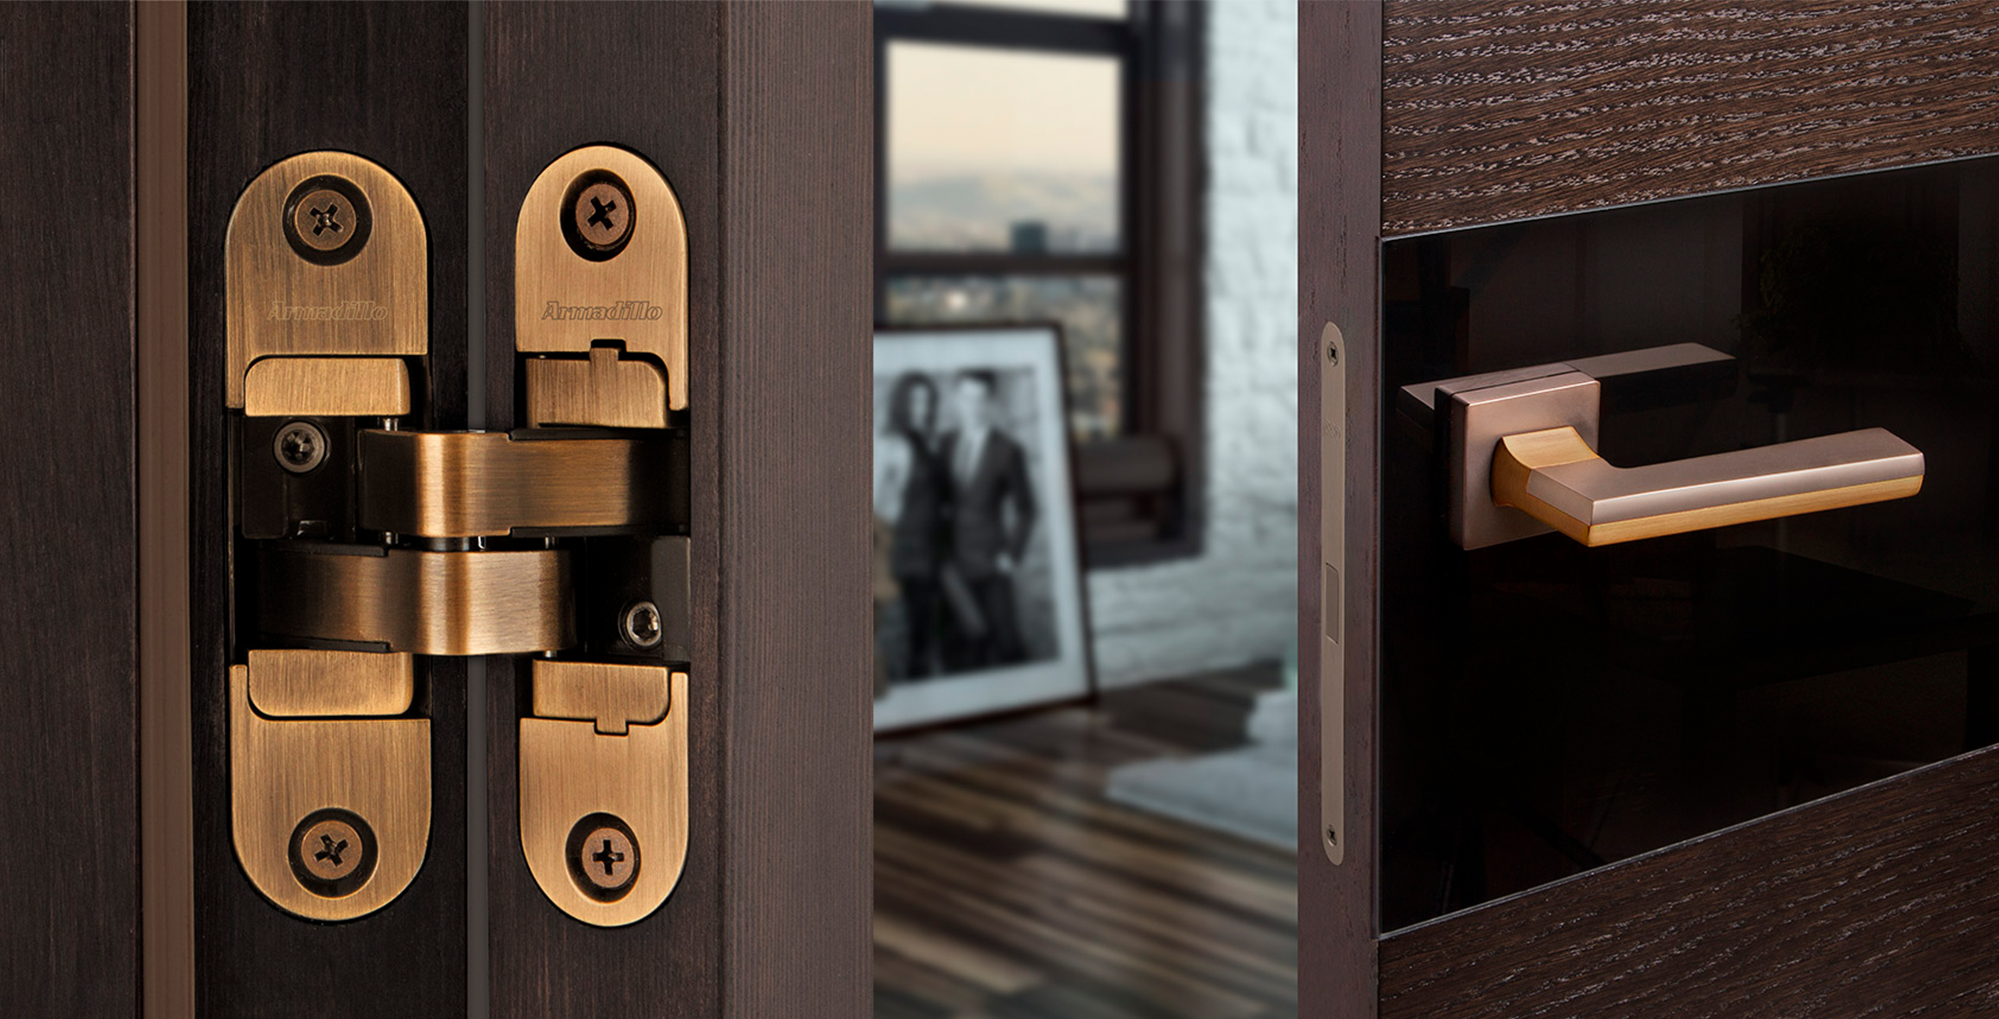
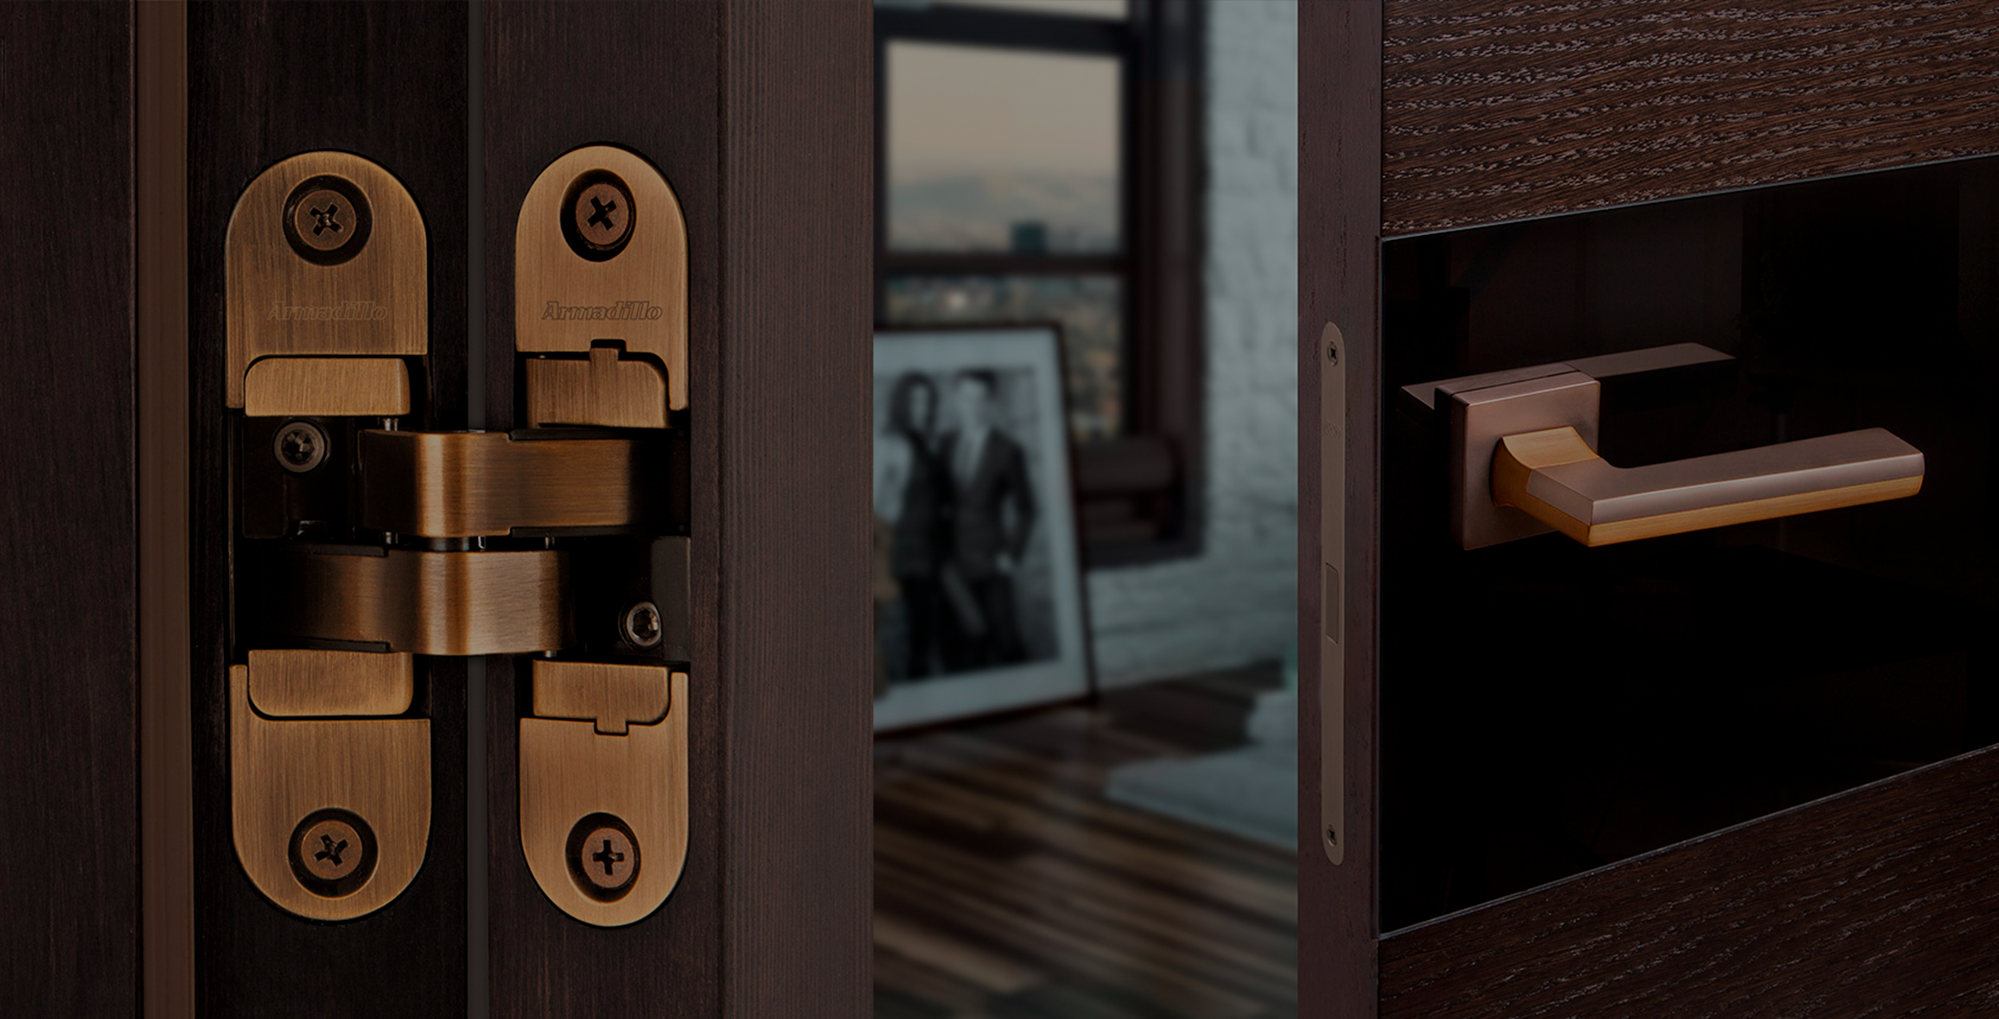
init(05.11.2024): fix header, slider images & ect.

diff --git a/single-product.html b/single-product.html
@@ -282,16 +282,16 @@
 						<!-- Single-product end -->
 					</div>
 					<!-- single-product-tab start -->
-					<div class="single-pro-tab">
-						<div id="information">
-							<div class="pro-tab-info pro-information">
-								<h3 class="tab-title title-border mb-30">Описание</h3>
-								<p>Lorem ipsum dolor sit amet, consectetur adipiscing elit. Integer accumsan egestas elese ifend. Phasellus a felis at est bibendum feugiat ut eget eni Praesent et messages in con sectetur posuere dolor non.</p>
-								<p>Lorem ipsum dolor sit amet, consectetur adipiscing elit. Integer accumsan egestas elese ifend. Phasellus a felis at est bibendum feugiat ut eget eni Praesent et messages in con sectetur posuere dolor non.</p>
-								<p>Lorem ipsum dolor sit amet, consectetur adipiscing elit. Integer accumsan egestas elese ifend. Phasellus a felis at est bibendum feugiat ut eget eni Praesent et messages in con sectetur posuere dolor non.</p>
-							</div>
-						</div>
-					</div>
+<!--					<div class="single-pro-tab">-->
+<!--						<div id="information">-->
+<!--							<div class="pro-tab-info pro-information">-->
+<!--								<h3 class="tab-title title-border mb-30">Описание</h3>-->
+<!--								<p>Lorem ipsum dolor sit amet, consectetur adipiscing elit. Integer accumsan egestas elese ifend. Phasellus a felis at est bibendum feugiat ut eget eni Praesent et messages in con sectetur posuere dolor non.</p>-->
+<!--								<p>Lorem ipsum dolor sit amet, consectetur adipiscing elit. Integer accumsan egestas elese ifend. Phasellus a felis at est bibendum feugiat ut eget eni Praesent et messages in con sectetur posuere dolor non.</p>-->
+<!--								<p>Lorem ipsum dolor sit amet, consectetur adipiscing elit. Integer accumsan egestas elese ifend. Phasellus a felis at est bibendum feugiat ut eget eni Praesent et messages in con sectetur posuere dolor non.</p>-->
+<!--							</div>-->
+<!--						</div>-->
+<!--					</div>-->
 				</div>
 			</div>
 			<!-- PRODUCT-AREA END -->
@@ -331,7 +331,7 @@
 							<p><br><br>Цены и информация, представленные на данном сайте, приведены в ознакомительных целях, не являются публичной офертой и могут быть изменены.</p>
 							<p>ИП Исаев Андрей Владимирович, УНП 690311744, свидетельство о государствееной регистрации №0870887 от 15.12.2022 г. Регистрация в Торговом реестре Республики Беларусь №690311744 от 15.11.2004 г.</p>
 							<p>По вопросам покупателей о защите их прав:<br><a href="80293673518">+375 (29) 367-35-18</a><br><a href="mailto:your-email@gmail.com">your-email@gmail.com</a></p>
-							<p>Контакты лиц, уполномоченных рассматривать обращения покупателей о нарушении их прав (Червеньский районный исполнительный комитет, отдел торговли и услуг)<br> +375 (17) 270-29-14<br> +375 (17) 270-33-75.</p>
+							<p>Контакты лиц, уполномоченных рассматривать обращения покупателей о нарушении их прав (Червеньский районный исполнительный комитет, отдел торговли и услуг).</p>
 						</div>
 					</div>
 				</div>

diff --git a/accessories.html b/accessories.html
@@ -406,7 +406,7 @@
                             <!-- Widget-Manufacturer start -->
                             <aside class="widget widget-color mb-30">
                                 <div class="widget-title">
-                                    <h4>Назначение</h4>
+                                    <h4>Сегмент</h4>
                                 </div>
                                 <div class="widget-info color-filter clearfix">
                                     <ul>
@@ -458,7 +458,7 @@
                         <p><br><br>Цены и информация, представленные на данном сайте, приведены в ознакомительных целях, не являются публичной офертой и могут быть изменены.</p>
                         <p>ИП Исаев Андрей Владимирович, УНП 690311744, свидетельство о государствееной регистрации №0870887 от 15.12.2022 г. Регистрация в Торговом реестре Республики Беларусь №690311744 от 15.11.2004 г.</p>
                         <p>По вопросам покупателей о защите их прав:<br><a href="80293673518">+375 (29) 367-35-18</a><br><a href="mailto:your-email@gmail.com">your-email@gmail.com</a></p>
-                        <p>Контакты лиц, уполномоченных рассматривать обращения покупателей о нарушении их прав (Червеньский районный исполнительный комитет, отдел торговли и услуг)<br> +375 (17) 270-29-14<br> +375 (17) 270-33-75.</p>
+                        <p>Контакты лиц, уполномоченных рассматривать обращения покупателей о нарушении их прав (Червеньский районный исполнительный комитет, отдел торговли и услуг).</p>
                     </div>
                 </div>
             </div>

diff --git a/index.html b/index.html
@@ -147,7 +147,7 @@
 			<section class="slider-area slider-style-2">
 				<div class="bend niceties preview-2">
 					<div id="ensign-nivoslider" class="slides">	
-						<img src="img/slider/1.jpg" alt="" title="#slider-direction-1"  />
+						<img src="img/slider/1.png" alt="" title="#slider-direction-1"  />
 						<img src="img/slider/2.png" alt="" title="#slider-direction-2"  />
 						<img src="img/slider/3.png" alt="" title="#slider-direction-3"  />
 					</div>
@@ -448,7 +448,7 @@
 								<p><br><br>Цены и информация, представленные на данном сайте, приведены в ознакомительных целях, не являются публичной офертой и могут быть изменены.</p>
 								<p>ИП Исаев Андрей Владимирович, УНП 690311744, свидетельство о государствееной регистрации №0870887 от 15.12.2022 г. Регистрация в Торговом реестре Республики Беларусь №690311744 от 15.11.2004 г.</p>
 								<p>По вопросам покупателей о защите их прав:<br><a href="80293673518">+375 (29) 367-35-18</a><br><a href="mailto:your-email@gmail.com">your-email@gmail.com</a></p>
-								<p>Контакты лиц, уполномоченных рассматривать обращения покупателей о нарушении их прав (Червеньский районный исполнительный комитет, отдел торговли и услуг)<br> +375 (17) 270-29-14<br> +375 (17) 270-33-75.</p>
+								<p>Контакты лиц, уполномоченных рассматривать обращения покупателей о нарушении их прав (Червеньский районный исполнительный комитет, отдел торговли и услуг).</p>
 							</div>
 						</div>
 					</div>

diff --git a/Interior-rooms.html b/Interior-rooms.html
@@ -461,7 +461,7 @@
                             <p><br><br>Цены и информация, представленные на данном сайте, приведены в ознакомительных целях, не являются публичной офертой и могут быть изменены.</p>
                             <p>ИП Исаев Андрей Владимирович, УНП 690311744, свидетельство о государствееной регистрации №0870887 от 15.12.2022 г. Регистрация в Торговом реестре Республики Беларусь №690311744 от 15.11.2004 г.</p>
                             <p>По вопросам покупателей о защите их прав:<br><a href="80293673518">+375 (29) 367-35-18</a><br><a href="mailto:your-email@gmail.com">your-email@gmail.com</a></p>
-                            <p>Контакты лиц, уполномоченных рассматривать обращения покупателей о нарушении их прав (Червеньский районный исполнительный комитет, отдел торговли и услуг)<br> +375 (17) 270-29-14<br> +375 (17) 270-33-75.</p>
+                            <p>Контакты лиц, уполномоченных рассматривать обращения покупателей о нарушении их прав (Червеньский районный исполнительный комитет, отдел торговли и услуг).</p>
                         </div>
                     </div>
                 </div>

diff --git a/entrance.html b/entrance.html
@@ -459,7 +459,7 @@
                             <p><br><br>Цены и информация, представленные на данном сайте, приведены в ознакомительных целях, не являются публичной офертой и могут быть изменены.</p>
                             <p>ИП Исаев Андрей Владимирович, УНП 690311744, свидетельство о государствееной регистрации №0870887 от 15.12.2022 г. Регистрация в Торговом реестре Республики Беларусь №690311744 от 15.11.2004 г.</p>
                             <p>По вопросам покупателей о защите их прав:<br><a href="80293673518">+375 (29) 367-35-18</a><br><a href="mailto:your-email@gmail.com">your-email@gmail.com</a></p>
-                            <p>Контакты лиц, уполномоченных рассматривать обращения покупателей о нарушении их прав (Червеньский районный исполнительный комитет, отдел торговли и услуг)<br> +375 (17) 270-29-14<br> +375 (17) 270-33-75.</p>
+                            <p>Контакты лиц, уполномоченных рассматривать обращения покупателей о нарушении их прав (Червеньский районный исполнительный комитет, отдел торговли и услуг).</p>
                         </div>
                     </div>
                 </div>

diff --git a/opl-dos.html b/opl-dos.html
@@ -210,7 +210,7 @@
 									<p><br><br>Цены и информация, представленные на данном сайте, приведены в ознакомительных целях, не являются публичной офертой и могут быть изменены.</p>
 									<p>ИП Исаев Андрей Владимирович, УНП 690311744, свидетельство о государствееной регистрации №0870887 от 15.12.2022 г. Регистрация в Торговом реестре Республики Беларусь №690311744 от 15.11.2004 г.</p>
 									<p>По вопросам покупателей о защите их прав:<br><a href="80293673518">+375 (29) 367-35-18</a><br><a href="mailto:your-email@gmail.com">your-email@gmail.com</a></p>
-									<p>Контакты лиц, уполномоченных рассматривать обращения покупателей о нарушении их прав (Червеньский районный исполнительный комитет, отдел торговли и услуг)<br> +375 (17) 270-29-14<br> +375 (17) 270-33-75.</p>
+									<p>Контакты лиц, уполномоченных рассматривать обращения покупателей о нарушении их прав (Червеньский районный исполнительный комитет, отдел торговли и услуг).</p>
 								</div>
 							</div>
 						</div>

diff --git a/catalog.html b/catalog.html
@@ -181,7 +181,7 @@
 						<p><br><br>Цены и информация, представленные на данном сайте, приведены в ознакомительных целях, не являются публичной офертой и могут быть изменены.</p>
 						<p>ИП Исаев Андрей Владимирович, УНП 690311744, свидетельство о государствееной регистрации №0870887 от 15.12.2022 г. Регистрация в Торговом реестре Республики Беларусь №690311744 от 15.11.2004 г.</p>
 						<p>По вопросам покупателей о защите их прав:<br><a href="80293673518">+375 (29) 367-35-18</a><br><a href="mailto:your-email@gmail.com">your-email@gmail.com</a></p>
-						<p>Контакты лиц, уполномоченных рассматривать обращения покупателей о нарушении их прав (Червеньский районный исполнительный комитет, отдел торговли и услуг)<br> +375 (17) 270-29-14<br> +375 (17) 270-33-75.</p>
+						<p>Контакты лиц, уполномоченных рассматривать обращения покупателей о нарушении их прав (Червеньский районный исполнительный комитет, отдел торговли и услуг).</p>
 					</div>
 				</div>
 			</div>

diff --git a/style.min.css b/style.min.css
@@ -604,17 +604,17 @@ h5 {
     margin: 0 0 30px
 }
 
-.slider-right {
-    width: 70.5%
-}
+/*.slider-right {*/
+/*    width: 70.5%*/
+/*}*/
 
-.slider-style-2{
-    background: #000;
-}
+/*.slider-style-2{*/
+/*    background: #000;*/
+/*}*/
 
-.slides>img{
-    opacity: 0.6;
-}
+/*.slides>img{*/
+/*    opacity: 0.6;*/
+/*}*/
 
 .slider-title2, .slider-title3 {
     font-weight: 400;
@@ -671,6 +671,7 @@ h5 {
     text-align: center;
     margin-bottom: 13px
 }
+
 
 .sidebar-social ul > li:last-child {
     margin-bottom: 0
@@ -2899,6 +2900,12 @@ input[type="radio"]:nth-child(3):checked + label {
     header {
         margin-top: -105px;
     }
+
+    .header-logo-link img{
+        scale: 2;
+        padding: 10px 1px 0 28px;
+    }
+
 }
 
 @media screen and (max-width: 375px) {

diff --git a/css/meanmenu.min.css b/css/meanmenu.min.css
@@ -17,10 +17,12 @@ a.meanmenu-reveal {
     z-index: 999999;
 }
 
+
+
 .mean-container a.meanmenu-reveal {
-    width: 22px;
+    width: 20px;
     height: 22px;
-    padding: 13px 13px 11px;
+    padding: 18px 15px 13px;
     top: 0;
     right: 0;
     cursor: pointer;
@@ -170,4 +172,18 @@ a.meanmenu-reveal {
     left: 5%;
     position: absolute;
     top: 15px;
+}
+
+@media screen and (max-width: 425px) {
+    .meanmenu-reveal{
+        scale: 2;
+    }
+
+    .mobile-menu-area{
+        height: 70px;
+    }
+
+    .mean-nav {
+        margin-top: 12px;
+    }
 }
